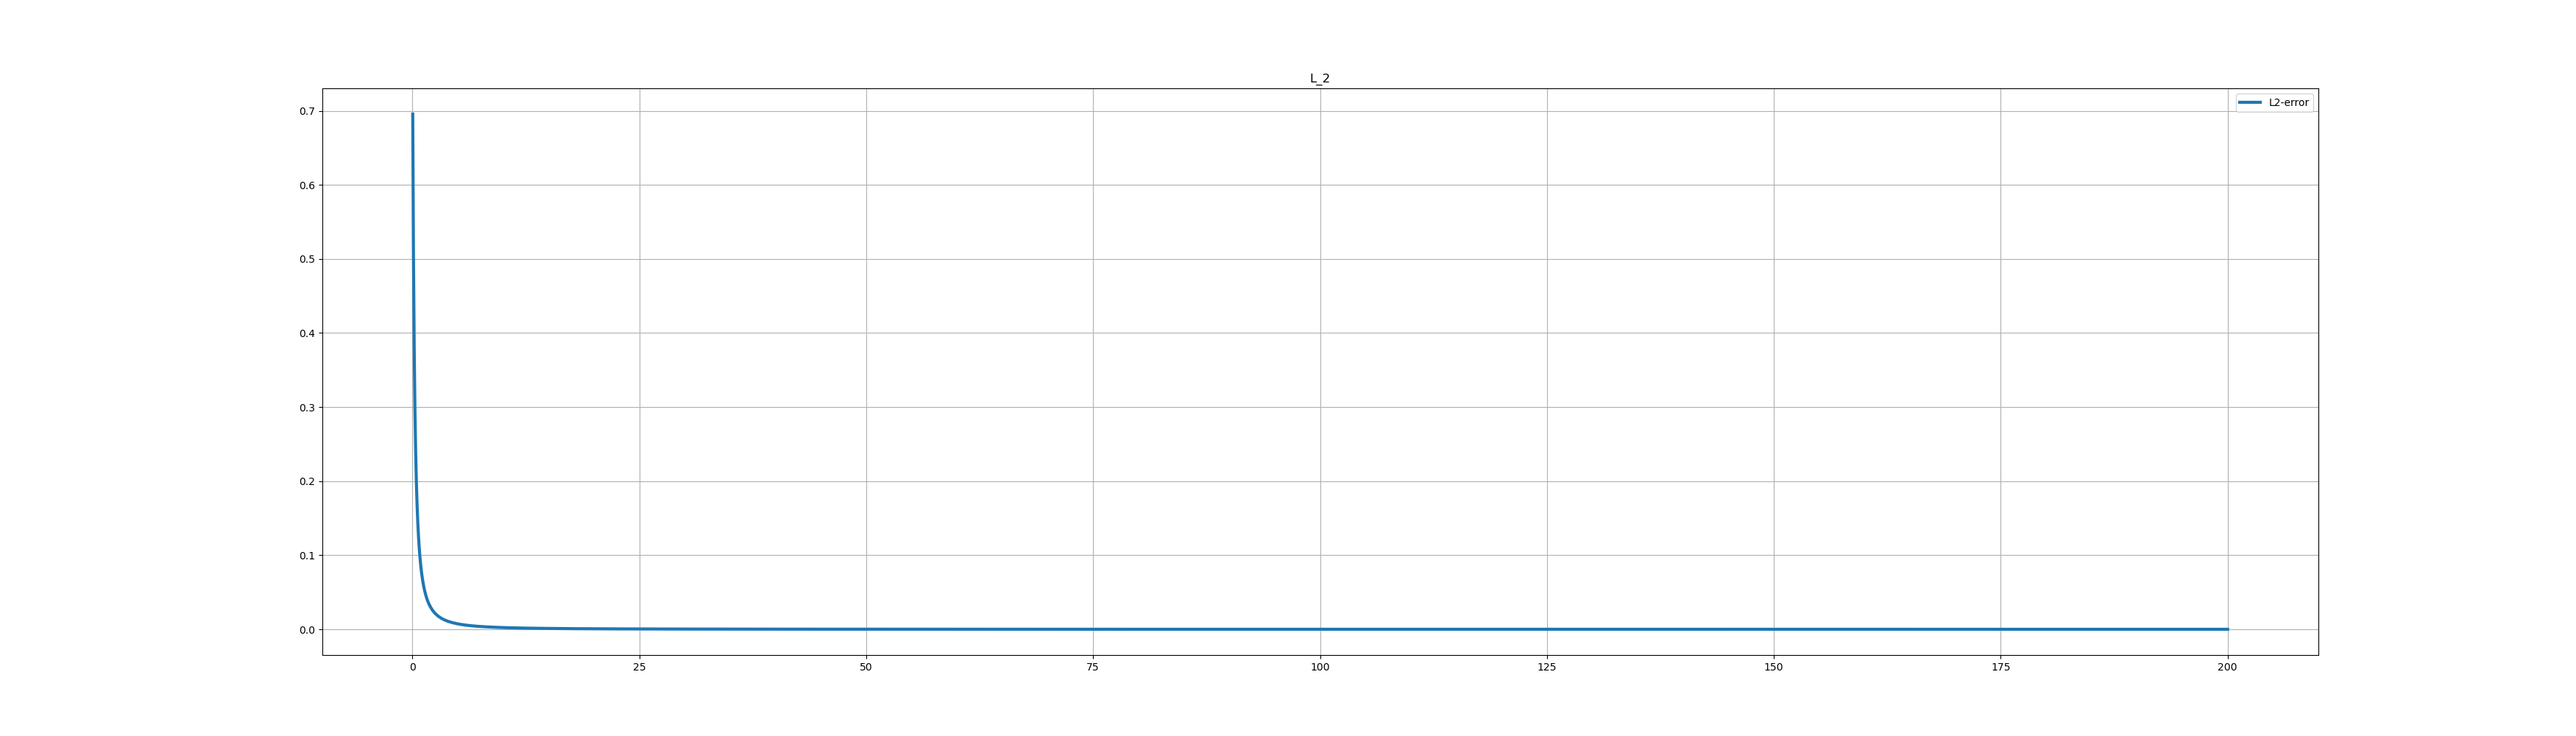
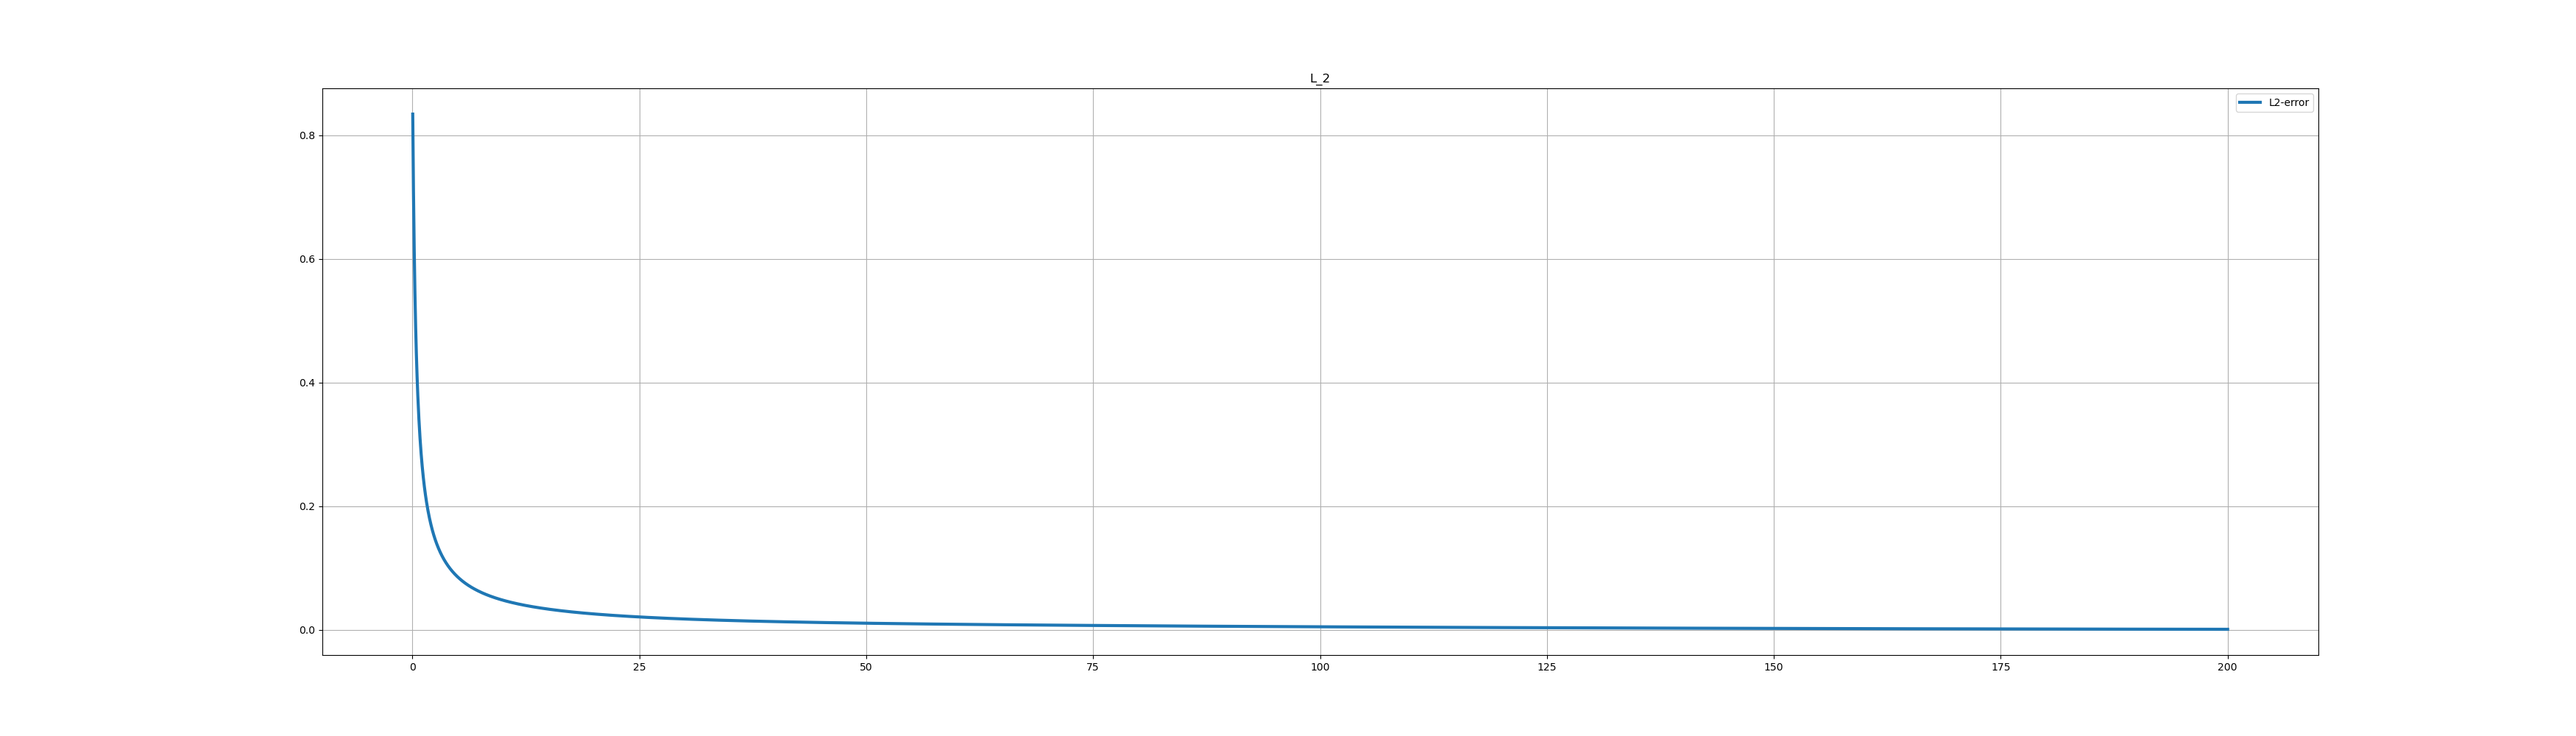
change relative some secrete

diff --git a/diffusion_hole_con_pump.py b/diffusion_hole_con_pump.py
@@ -37,8 +37,8 @@ a = 1
 b = 1
 c = 0
 t = 0  
-T = 10.0
-num_steps = 500
+T = 200.0
+num_steps = 5000
 dt = T / num_steps
 
 #Define the Petri dish and the cells
@@ -176,7 +176,7 @@ else:
 
 #Initial condition
 def initial_condition(x, disp=1, cct=c):
-    return np.sin((x[0]+x[1]/3+2)) + 1
+    return x[0]*0 + cct
 
 #Spatial exclusion model
 
@@ -211,7 +211,7 @@ v_s = TestFunction(V_s)
 u_sn = Function(V_s)
 u_sn.interpolate(initial_condition)
 
-a_s = u_s * v_s * dx_s + dt * D * dot(grad(u_s), grad(v_s)) * dx_s + dt * a * u_s * v_s * ds_s(1) #+ dt * a * u_s * v_s * ds_s(2)
+a_s = u_s * v_s * dx_s + dt * D * dot(grad(u_s), grad(v_s)) * dx_s #+ dt * a * u_s * v_s * ds_s(1) #+ dt * a * u_s * v_s * ds_s(2)
 L_s = u_sn * v_s * dx_s + dt * b * v_s * ds_s(1) #+ dt * b * v_s * ds_s(2)
 
 
@@ -385,7 +385,7 @@ Q1_p.setUp()
 Q1_p.setValues(range(qq1_p.getSize()),0,qq1_p)
 Q1_p.assemble()
 A1_p = Q1_p.matTransposeMult(T1_p)
-A_p.axpy(1, A1_p)
+#A_p.axpy(1, A1_p)
 
 
 solver_p = PETSc.KSP().create(domain_point_source.comm)
@@ -398,7 +398,7 @@ u_p = Function(V_p)
 u_p_res = Function(V_s)
 w = Function(V_s)
 
-
+"""
 grid = pyvista.UnstructuredGrid(*plot.vtk_mesh(V_p))
 plotter = pyvista.Plotter()
 plotter.open_gif("Comparison.gif", fps=10)
@@ -412,13 +412,14 @@ renderer = plotter.add_mesh(grid, show_edges=True, lighting=False,
                             clim=[0, 2])
 #xdmf = io.XDMFFile(domain_point_source.comm, "point_source.xdmf", "w")
 #xdmf.write_mesh(domain_point_source)
-
+"""
 if domain_spatial_exclusion.comm.rank == 0:
     e_w = np.zeros(num_steps, dtype=np.float64)
     t_e = np.zeros(num_steps, dtype=np.float64)
     i = 0
 
 print(a, b, c, D)
+a = 0
 
 for i in range(num_steps):
     t += dt
@@ -444,27 +445,27 @@ for i in range(num_steps):
         u_p.function_space.mesh._cpp_object,padding=0))
     u_p_res.x.scatter_forward()
     w.x.array[:] = np.abs(u_s.x.array[:] - u_p_res.x.array[:])
-    new_warped = grid.warp_by_scalar("u_p", factor=1)
-    warped.points[:, :] = new_warped.points
-    warped.point_data["u_p"][:] = u_p.x.array
-    plotter.write_frame()
-    eL2_local = domain_spatial_exclusion.comm.allreduce(assemble_scalar(fem.form(u_s * u_s * dx_s)), op=MPI.SUM)
-    sL2_local = domain_spatial_exclusion.comm.allreduce(assemble_scalar(fem.form(u_p_res * u_p_res * dx_s)), op=MPI.SUM)
-    qL2_local = domain_spatial_exclusion.comm.allreduce(assemble_scalar(fem.form(w * w * dx_s)), op=MPI.SUM)
-    print(i+1, np.sqrt(eL2_local), np.sqrt(sL2_local), np.sqrt(qL2_local))
+    #new_warped = grid.warp_by_scalar("u_p", factor=1)
+    #warped.points[:, :] = new_warped.points
+    #warped.point_data["u_p"][:] = u_p.x.array
+    #plotter.write_frame()
+    eL2_local = np.sqrt(domain_spatial_exclusion.comm.allreduce(assemble_scalar(fem.form(u_s * u_s * dx_s)), op=MPI.SUM))
+    sL2_local = np.sqrt(domain_spatial_exclusion.comm.allreduce(assemble_scalar(fem.form(u_p_res * u_p_res * dx_s)), op=MPI.SUM))
+    qL2_local = np.sqrt(domain_spatial_exclusion.comm.allreduce(assemble_scalar(fem.form(w * w * dx_s)), op=MPI.SUM))
+    print(i+1, eL2_local, sL2_local, qL2_local)
     e_w[i] = qL2_local/eL2_local
     i += 1
 
        
-#fig = plt.figure(figsize=(35, 10))
-#l1 = plt.plot(t_e, e_w, label="L2-error", linewidth=3)
-#plt.title("L_2")
-#plt.grid()
-#plt.legend()
+fig = plt.figure(figsize=(35, 10))
+l1 = plt.plot(t_e, e_w, label="L2-error", linewidth=3)
+plt.title("L_2")
+plt.grid()
+plt.legend()
 #plt.show()
-#plt.savefig("Comparison_" + str(a) + "_" + str(b) + "_" + str(c) + "_"+ str(D) + "_" + str(T) + "_" + str(num_steps) +".png")
+plt.savefig("Comparison_" + str(a) + "_" + str(b) + "_" + str(c) + "_"+ str(D) + "_" + str(T) + "_" + str(num_steps) +".png")
 
 
 #os.remove("spactial_exclusion_try.gif")
-plotter.close()
+#plotter.close()
 #xdmf.close()
